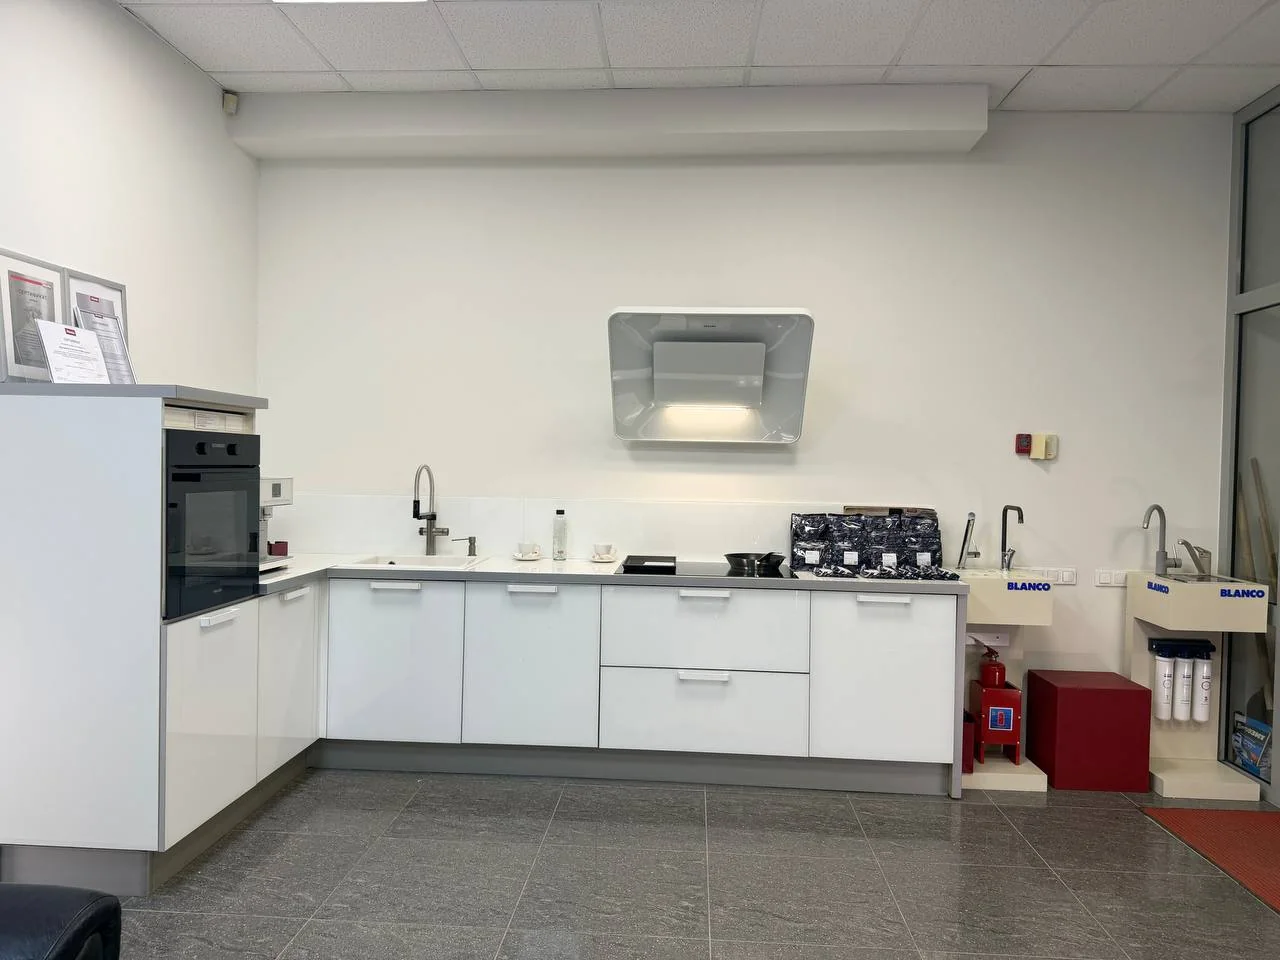
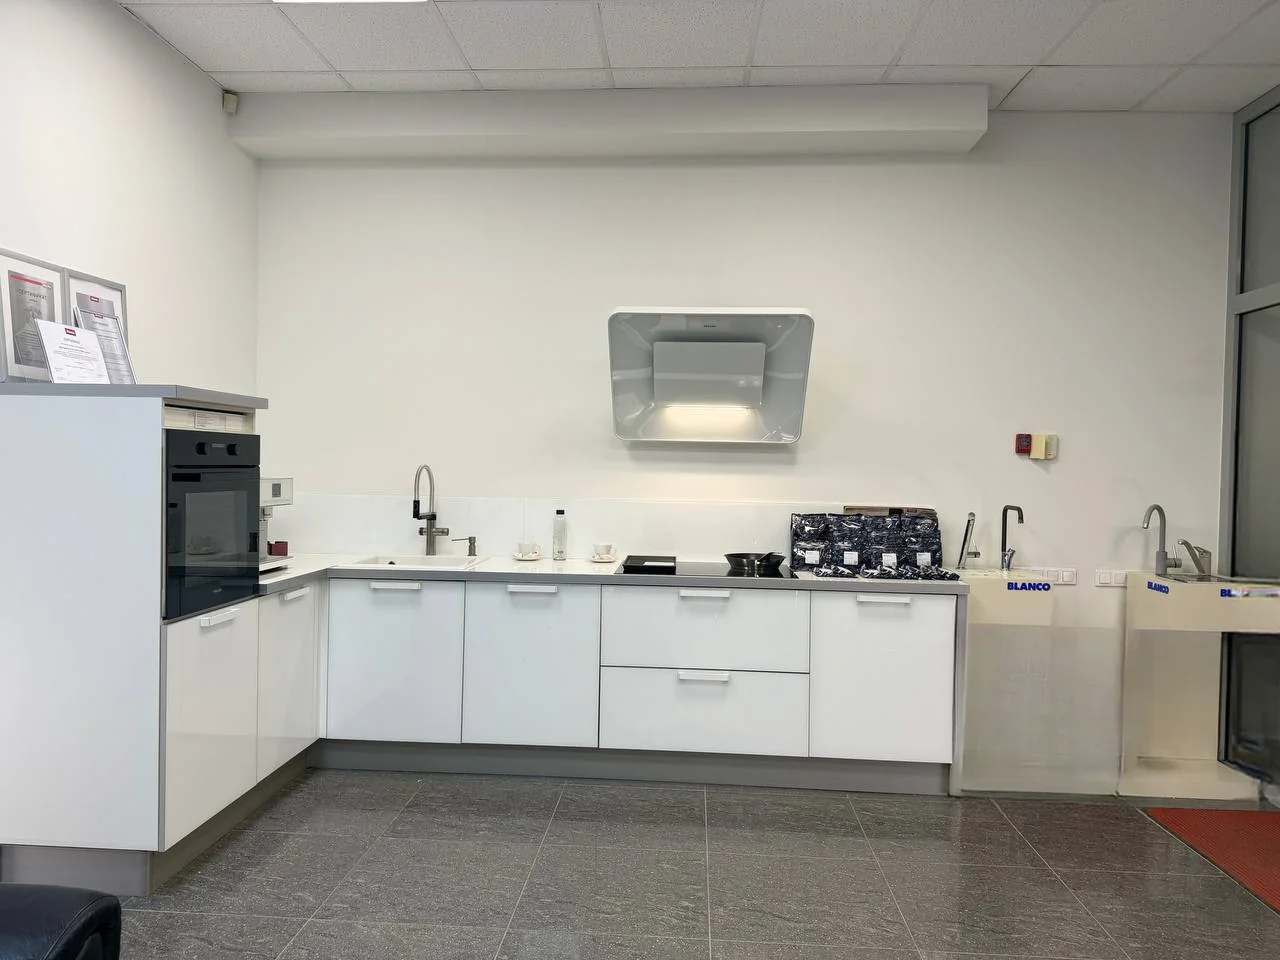
Showroom photos 1,2,6,7: AI-inpainted out the dishwasher boxes, shovel, brooms, extinguisher and filters (owner request 20.11)

Changed region(s): [[0.75, 0.4688, 1.0, 0.8438]]

diff --git a/index.html b/index.html
@@ -9,7 +9,7 @@
 <meta name="theme-color" content="#000000">
 <link rel="preload" href="assets/fonts/InterVariable.woff2" as="font" type="font/woff2" crossorigin>
 <link rel="icon" href="assets/img/favicon.png" type="image/png">
-<link rel="stylesheet" href="assets/css/style.css?v=35">
+<link rel="stylesheet" href="assets/css/style.css?v=36">
 </head>
 <body data-page="home">
 <div id="hdr"></div>
@@ -75,13 +75,13 @@
           </div>
       </div>
       <div class="shw__slider" aria-label="Фото шоурума">
-        <figure class="shw__s on"><img src="assets/img/showroom/sr1.webp" alt="Кухня со встроенной техникой Miele в шоуруме" loading="lazy" draggable="false"><figcaption class="shw__cap"><i>01</i><b>Кухонная зона</b><em>Духовой шкаф, варочная панель и вытяжка в живом интерьере</em></figcaption></figure>
-        <figure class="shw__s"><img src="assets/img/showroom/sr2.webp" alt="Встраиваемая техника Miele у входа в шоурум" loading="lazy" draggable="false"><figcaption class="shw__cap"><i>02</i><b>Встраиваемая техника</b><em>Духовой шкаф, кофемашина и винный шкаф</em></figcaption></figure>
+        <figure class="shw__s on"><img src="assets/img/showroom/sr1.webp?v=2" alt="Кухня со встроенной техникой Miele в шоуруме" loading="lazy" draggable="false"><figcaption class="shw__cap"><i>01</i><b>Кухонная зона</b><em>Духовой шкаф, варочная панель и вытяжка в живом интерьере</em></figcaption></figure>
+        <figure class="shw__s"><img src="assets/img/showroom/sr2.webp?v=2" alt="Встраиваемая техника Miele у входа в шоурум" loading="lazy" draggable="false"><figcaption class="shw__cap"><i>02</i><b>Встраиваемая техника</b><em>Духовой шкаф, кофемашина и винный шкаф</em></figcaption></figure>
         <figure class="shw__s"><img src="assets/img/showroom/sr3.webp" alt="Линия встраиваемых духовых шкафов и холодильников Miele" loading="lazy" draggable="false"><figcaption class="shw__cap"><i>03</i><b>Линия духовых шкафов</b><em>Духовые шкафы, пароварки и холодильники</em></figcaption></figure>
         <figure class="shw__s"><img src="assets/img/showroom/sr4.webp" alt="Колонны из стиральных и сушильных машин Miele" loading="lazy" draggable="false"><figcaption class="shw__cap"><i>04</i><b>Прачечная</b><em>Колонны из стиральных и сушильных машин</em></figcaption></figure>
         <figure class="shw__s"><img src="assets/img/showroom/sr5.webp" alt="Стиральные машины Miele на подиуме" loading="lazy" draggable="false"><figcaption class="shw__cap"><i>05</i><b>Стиральные машины</b><em>Модели на подиуме — можно открыть и сравнить</em></figcaption></figure>
-        <figure class="shw__s"><img src="assets/img/showroom/sr6.webp" alt="Зона консультаций в шоуруме Miele" loading="lazy" draggable="false"><figcaption class="shw__cap"><i>06</i><b>Зона консультаций</b><em>Подберём технику и посчитаем комплект</em></figcaption></figure>
-        <figure class="shw__s"><img src="assets/img/showroom/sr7.webp" alt="Вход в шоурум Miele на Сибирской, 61" loading="lazy" draggable="false"><figcaption class="shw__cap"><i>07</i><b>Шоурум на Сибирской, 61</b><em>Вход и зона консультаций</em></figcaption></figure>
+        <figure class="shw__s"><img src="assets/img/showroom/sr6.webp?v=2" alt="Зона консультаций в шоуруме Miele" loading="lazy" draggable="false"><figcaption class="shw__cap"><i>06</i><b>Зона консультаций</b><em>Подберём технику и посчитаем комплект</em></figcaption></figure>
+        <figure class="shw__s"><img src="assets/img/showroom/sr7.webp?v=2" alt="Вход в шоурум Miele на Сибирской, 61" loading="lazy" draggable="false"><figcaption class="shw__cap"><i>07</i><b>Шоурум на Сибирской, 61</b><em>Вход и зона консультаций</em></figcaption></figure>
         <div class="shw__ctl"><span class="shw__n">01 / 07</span><button type="button" class="shw__arr" data-d="-1" aria-label="Предыдущее фото">←</button><button type="button" class="shw__arr" data-d="1" aria-label="Следующее фото">→</button></div>
       </div>
     </div>
@@ -141,7 +141,7 @@
 
 <div id="ftr"></div>
 <script src="api/state.php"></script>
-<script src="assets/js/store.js?v=35"></script>
-<script src="assets/js/app.js?v=35"></script>
+<script src="assets/js/store.js?v=36"></script>
+<script src="assets/js/app.js?v=36"></script>
 </body>
 </html>

diff --git a/kabinet.html b/kabinet.html
@@ -6,8 +6,8 @@
 <title>Кабинет шоурума — Miele Пермь</title>
 <meta name="robots" content="noindex, nofollow">
 <link rel="icon" href="assets/img/favicon.png" type="image/png">
-<link rel="stylesheet" href="assets/css/style.css?v=35">
-<link rel="stylesheet" href="assets/css/admin.css?v=35">
+<link rel="stylesheet" href="assets/css/style.css?v=36">
+<link rel="stylesheet" href="assets/css/admin.css?v=36">
 </head>
 <body class="adm">
 
@@ -205,7 +205,7 @@
 
 <div class="toast" id="toast" role="status" aria-live="polite"></div>
 <script src="api/state.php"></script>
-<script src="assets/js/store.js?v=35"></script>
-<script src="assets/js/admin.js?v=35"></script>
+<script src="assets/js/store.js?v=36"></script>
+<script src="assets/js/admin.js?v=36"></script>
 </body>
 </html>

diff --git a/product.html b/product.html
@@ -8,14 +8,14 @@
 <meta name="theme-color" content="#000000">
 <link rel="preload" href="assets/fonts/InterVariable.woff2" as="font" type="font/woff2" crossorigin>
 <link rel="icon" href="assets/img/favicon.png" type="image/png">
-<link rel="stylesheet" href="assets/css/style.css?v=35">
+<link rel="stylesheet" href="assets/css/style.css?v=36">
 </head>
 <body data-page="product">
 <div id="hdr"></div>
 <main id="main"><div id="product"></div></main>
 <div id="ftr"></div>
 <script src="api/state.php"></script>
-<script src="assets/js/store.js?v=35"></script>
-<script src="assets/js/app.js?v=35"></script>
+<script src="assets/js/store.js?v=36"></script>
+<script src="assets/js/app.js?v=36"></script>
 </body>
 </html>

diff --git a/cart.html b/cart.html
@@ -8,7 +8,7 @@
 <meta name="theme-color" content="#000000">
 <link rel="preload" href="assets/fonts/InterVariable.woff2" as="font" type="font/woff2" crossorigin>
 <link rel="icon" href="assets/img/favicon.png" type="image/png">
-<link rel="stylesheet" href="assets/css/style.css?v=35">
+<link rel="stylesheet" href="assets/css/style.css?v=36">
 </head>
 <body data-page="cart">
 <div id="hdr"></div>
@@ -34,7 +34,7 @@
 </main>
 <div id="ftr"></div>
 <script src="api/state.php"></script>
-<script src="assets/js/store.js?v=35"></script>
-<script src="assets/js/app.js?v=35"></script>
+<script src="assets/js/store.js?v=36"></script>
+<script src="assets/js/app.js?v=36"></script>
 </body>
 </html>

diff --git a/designers.html b/designers.html
@@ -9,7 +9,7 @@
 <meta name="theme-color" content="#000000">
 <link rel="preload" href="assets/fonts/InterVariable.woff2" as="font" type="font/woff2" crossorigin>
 <link rel="icon" href="assets/img/favicon.png" type="image/png">
-<link rel="stylesheet" href="assets/css/style.css?v=35">
+<link rel="stylesheet" href="assets/css/style.css?v=36">
 </head>
 <body data-page="designers">
 <div id="hdr"></div>
@@ -57,7 +57,7 @@
 
 <div id="ftr"></div>
 <script src="api/state.php"></script>
-<script src="assets/js/store.js?v=35"></script>
-<script src="assets/js/app.js?v=35"></script>
+<script src="assets/js/store.js?v=36"></script>
+<script src="assets/js/app.js?v=36"></script>
 </body>
 </html>

diff --git a/consent.html b/consent.html
@@ -7,7 +7,7 @@
 <meta name="robots" content="noindex">
 <meta name="theme-color" content="#000000">
 <link rel="icon" href="assets/img/favicon.png" type="image/png">
-<link rel="stylesheet" href="assets/css/style.css?v=35">
+<link rel="stylesheet" href="assets/css/style.css?v=36">
 </head>
 <body data-page="doc">
 <div id="hdr"></div>
@@ -37,7 +37,7 @@
 </article></div></main>
 <div id="ftr"></div>
 <script src="api/state.php"></script>
-<script src="assets/js/store.js?v=35"></script>
-<script src="assets/js/app.js?v=35"></script>
+<script src="assets/js/store.js?v=36"></script>
+<script src="assets/js/app.js?v=36"></script>
 </body>
 </html>

diff --git a/privacy.html b/privacy.html
@@ -7,7 +7,7 @@
 <meta name="robots" content="noindex">
 <meta name="theme-color" content="#000000">
 <link rel="icon" href="assets/img/favicon.png" type="image/png">
-<link rel="stylesheet" href="assets/css/style.css?v=35">
+<link rel="stylesheet" href="assets/css/style.css?v=36">
 </head>
 <body data-page="doc">
 <div id="hdr"></div>
@@ -60,7 +60,7 @@
 </article></div></main>
 <div id="ftr"></div>
 <script src="api/state.php"></script>
-<script src="assets/js/store.js?v=35"></script>
-<script src="assets/js/app.js?v=35"></script>
+<script src="assets/js/store.js?v=36"></script>
+<script src="assets/js/app.js?v=36"></script>
 </body>
 </html>
